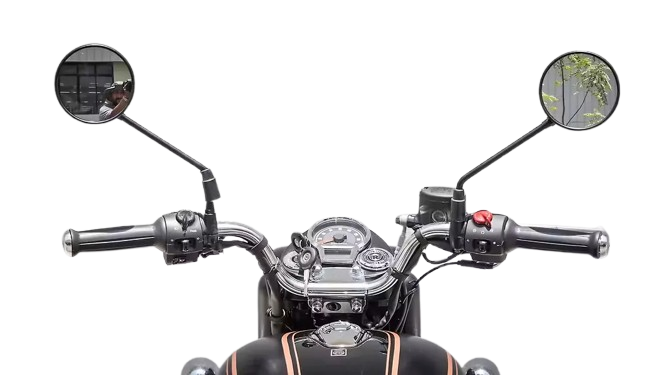
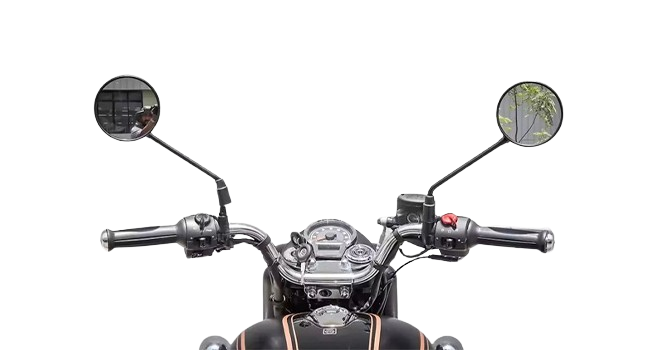
feat: add ModelsSection component with category filtering and import required assets

Changed region(s): [[0.0615, 0.1143, 0.9538, 1.0]]

diff --git a/src/assets/assest.js b/src/assets/assest.js
@@ -67,9 +67,9 @@ import bikereveal from './bike-reveal.png'
 
 import classic350 from   './models/classic350/classic350.png'
 import classic350handlebar from   './models/classic350/bullethandlebar.png'
-import classic350engine from   './models/classic350/engine350.png'
+import classic350engine from   './models/classic350/classic350engine.png'
 import classic350front from   './models/classic350/front.png'
-import classic350rear from   './models/classic350/rear.webp'
+import classic350rear from   './models/classic350/rear.png'
 
 import hunter350 from   './models/hunter350/hunter350.png'
 import hunter350handlebar from   './models/hunter350/hunter350handlebar.png'

diff --git a/src/components/sections/home/PopularBikes.jsx b/src/components/sections/home/PopularBikes.jsx
@@ -25,8 +25,8 @@ const slides = [
   heroImg: img.classic350,
   thumbnails: [
     { id: 1, img: img.classic350front, label: "Casquette Headlamp" },
-    { id: 2, img: img.classic350engine, label: "J-Series Motor" },
-    { id: 3, img: img.classic350handlebar, label: "Digi-Analog Cluster" },
+    { id: 2, img: img.classic350handlebar, label: "Digi-Analog Cluster" },
+    { id: 3, img: img.classic350engine, label: "J-Series Motor" },
     { id: 4, img: img.classic350rear, label: "Teardrop Fuel Tank" },
   ],
 },

diff --git a/src/components/layout/models/ModelsSection.jsx b/src/components/layout/models/ModelsSection.jsx
@@ -44,7 +44,7 @@ function Card({ title, img, slug, category, price, comingSoon, emiStarting }) {
           <div>
             <p className="models-card-title">{title}</p>
             {price ? (
-              <p className="models-card-price">Starting from {price}</p>
+              <p className="models-card-price">On-road price starting from {price}</p>
             ) : comingSoon ? (
               <p className="models-card-price" style={{ color: "#e63020", fontWeight: "bold" }}>Coming Soon</p>
             ) : null}